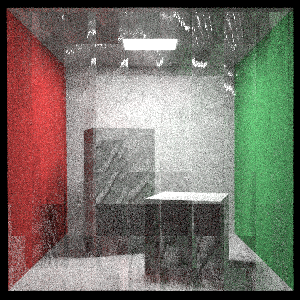
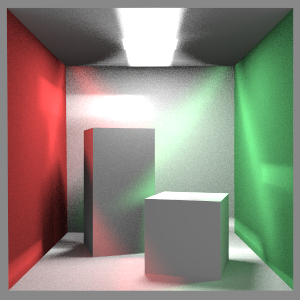
Assignment 3 done
Major improvement on global illumination

diff --git a/computer-graphics-assignment-3/computer-graphics-assignment-3/src/ray/renderer/PathTracer.java b/computer-graphics-assignment-3/computer-graphics-assignment-3/src/ray/renderer/PathTracer.java
@@ -15,11 +15,11 @@ import ray.sampling.SampleGenerator;
 public abstract class PathTracer extends DirectOnlyRenderer {
 	
 	
-	Color brdf = new Color();
+	//Color brdf = new Color();
 	Color irradiance = new Color();
 	Color incRadiance = new Color();
 	Ray sample = new Ray();
-	Vector3 incDir = new Vector3();
+	
 	IntersectionRecord lightIRec = new IntersectionRecord();
 	LuminaireSamplingRecord lRec = new LuminaireSamplingRecord();
 	
@@ -57,11 +57,12 @@ public abstract class PathTracer extends DirectOnlyRenderer {
     	// Here you need to use Geometry.squareToPSAHemisphere that you implemented earlier in this function
     	
     	//	generate random variable and get random incident direction
-
+    
     	
     	//   1. Generate a random incident direction according to proj solid angle
     	Point2 seed = new Point2();
         sampler.sample(1, sampleIndex, seed); 
+        Vector3 incDir = new Vector3();
     	Geometry.squareToPSAHemisphere(seed, incDir);
         iRec.frame.frameToCanonical(incDir);
         incDir.normalize();
@@ -71,31 +72,26 @@ public abstract class PathTracer extends DirectOnlyRenderer {
     	Color indirect = new Color();
         
     	Material material = iRec.surface.getMaterial();
-    	BRDF b = material.getBRDF(iRec);
-    	if ( b != null ) 
-    	{
-
-    		b.evaluate(iRec.frame, incDir, outDir, brdf);
+    	material.getBRDF(iRec).evaluate(iRec.frame, incDir, outDir, brdf);
             
             
-            scene.incidentRadiance(iRec.frame.o, incDir, out);
+            //scene.incidentRadiance(iRec.frame.o, incDir, out);
             
             //generate the new reflected light 
-            Ray newRay = new Ray(iRec.frame.o, incDir);
-            newRay.makeOffsetRay();
-            // recursively compute incident radiance
-            rayRadianceRecursive(scene, newRay, sampler, sampleIndex, level+1, indirect);
-           
-            out.scale(brdf);
-            out.scale(Math.PI); 
-            indirect.scale(brdf);
-            indirect.scale(Math.PI); 
-            out.add(indirect);
-            outColor.add(out);
-    	}
+        Ray newRay = new Ray(iRec.frame.o, incDir);
+        newRay.makeOffsetRay();
+        // recursively compute incident radiance
+        rayRadianceRecursive(scene, newRay, sampler, sampleIndex, level+1, indirect);
+       
+        //out.scale(brdf);
+       // out.scale(Math.PI); 
+        indirect.scale(brdf);
+        indirect.scale(Math.PI); 
+        out.add(indirect);
+        outColor.add(out);
+    	
  
-        return;
-        
+
     	/*
     	//   1. Generate a random incident direction according to proj solid angle
         sampler.sample(1, sampleIndex, seed); 

diff --git a/computer-graphics-assignment-3/computer-graphics-assignment-3/src/ray/renderer/BruteForcePathTracer.java b/computer-graphics-assignment-3/computer-graphics-assignment-3/src/ray/renderer/BruteForcePathTracer.java
@@ -55,8 +55,8 @@ public class BruteForcePathTracer extends PathTracer {
                 
                 gatherIllumination(scene, outDir, iRec, sampler, sampleIndex, level, gatherRadiance);
                 outColor.add(gatherRadiance);
-    		}    
-            
+    		} else
+    			scene.getBackground().evaluate(ray.direction, outColor);            
 		}
     	/*
     	if(level < depthLimit){
